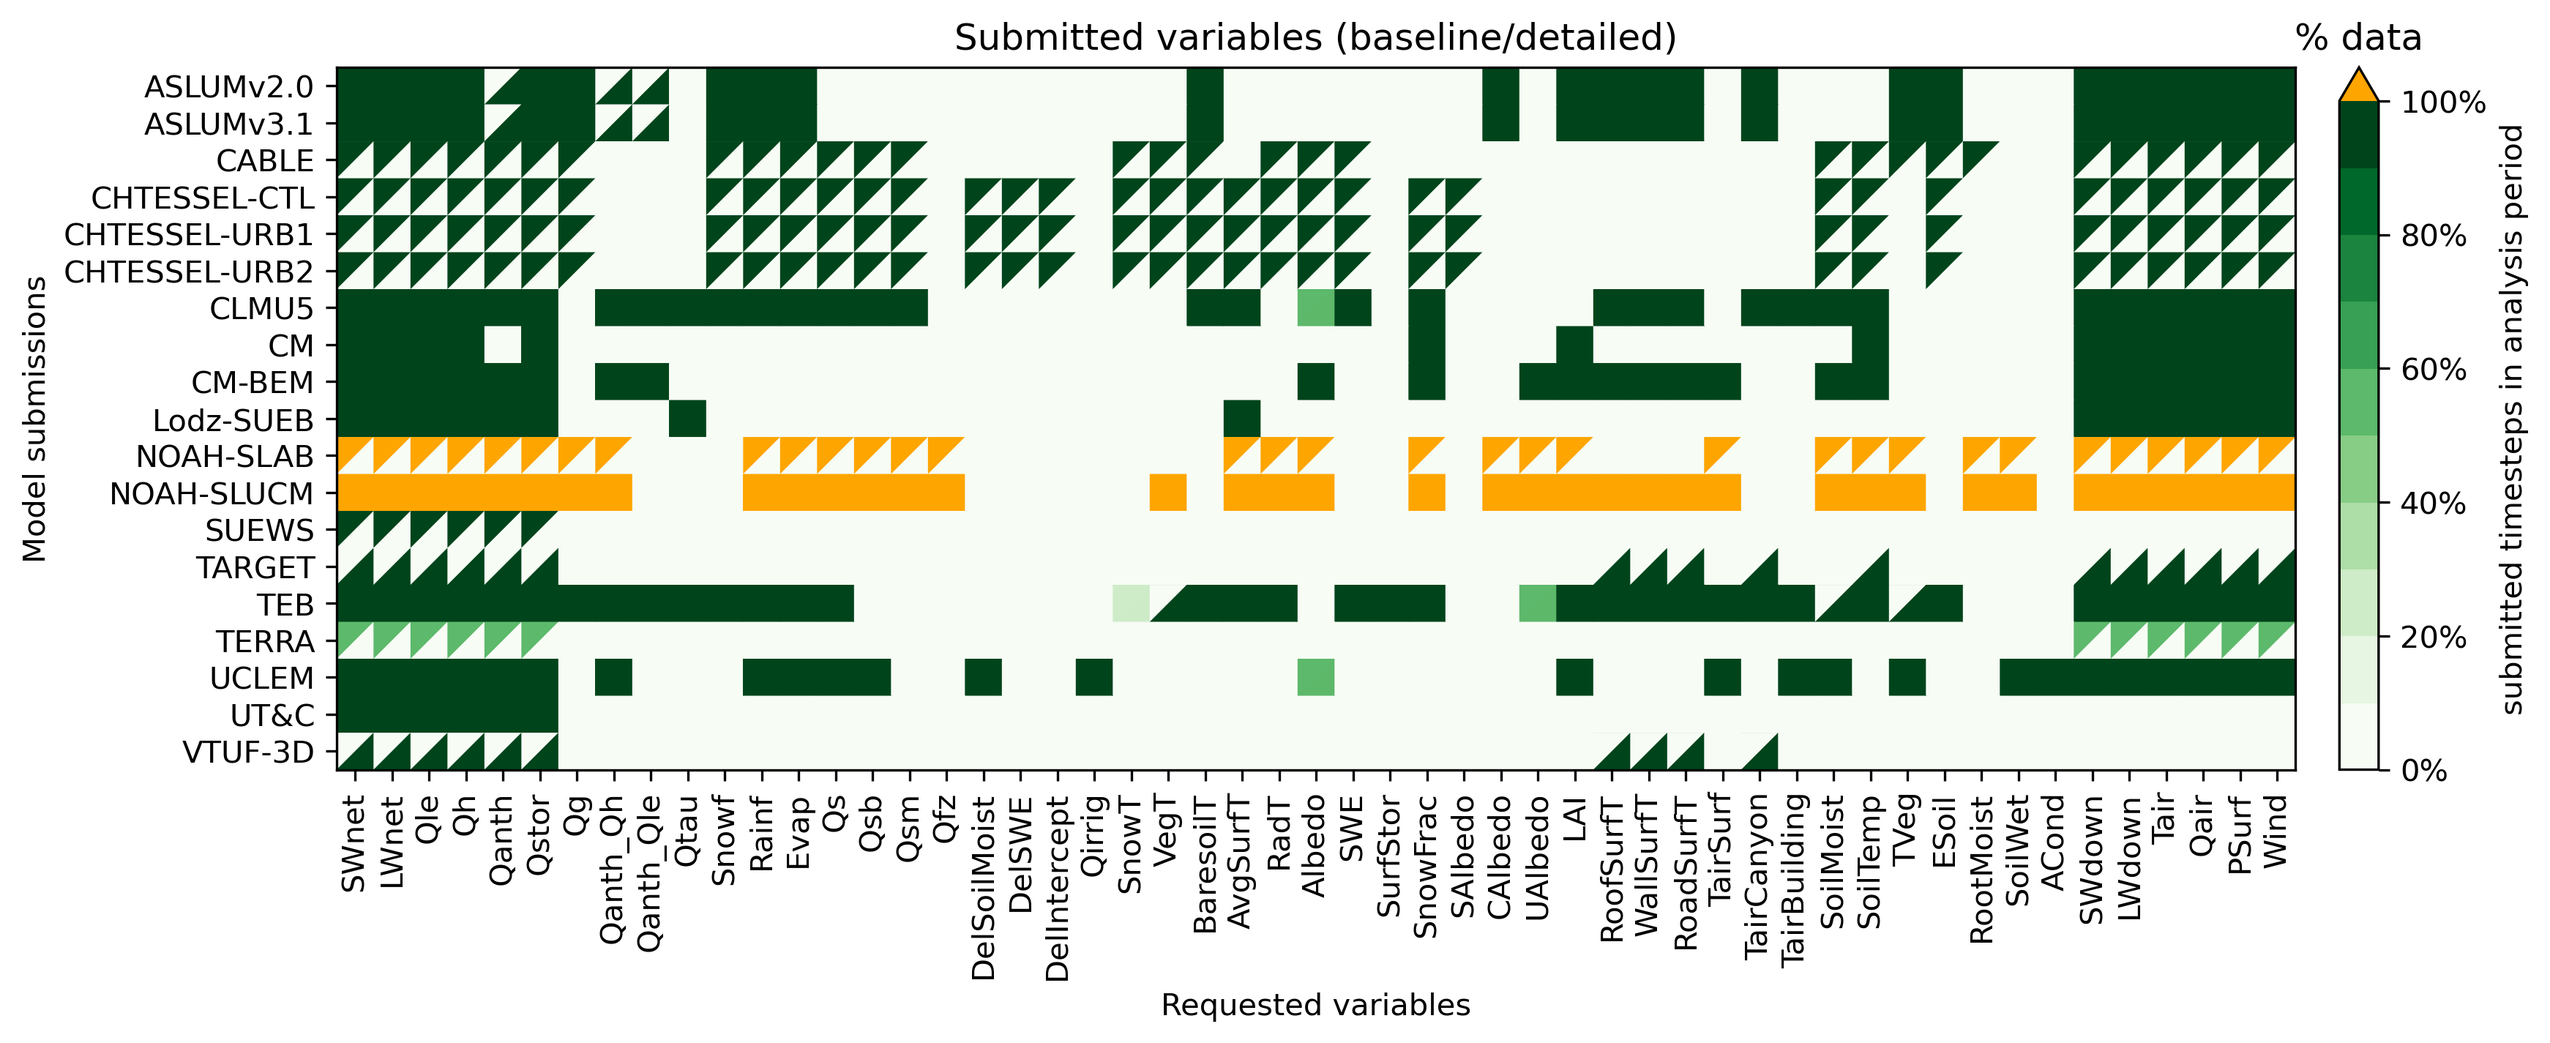
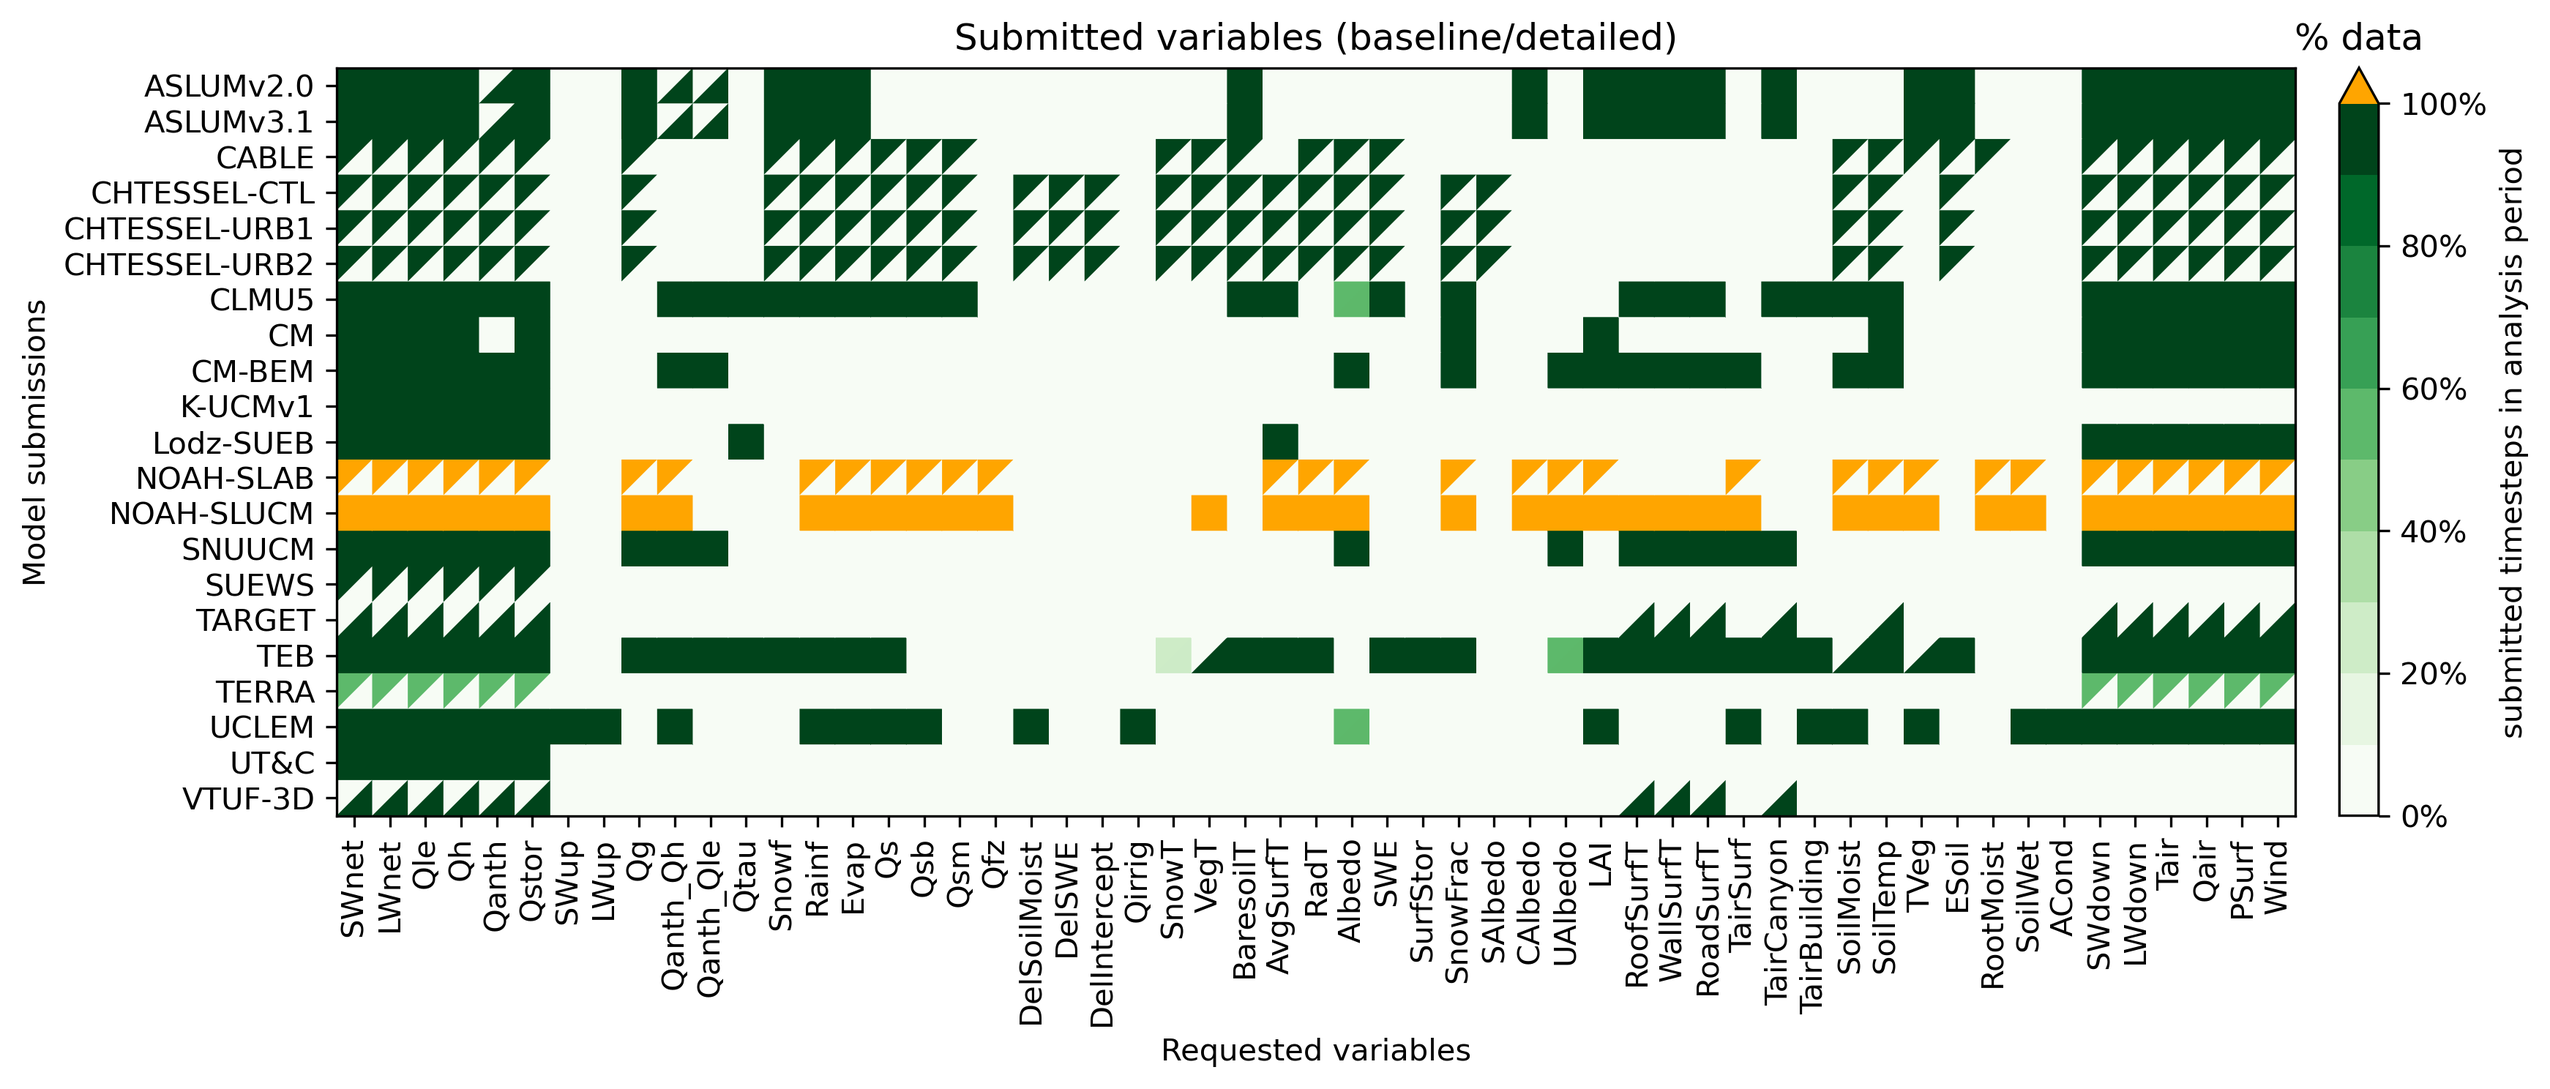
update 2nd modelattrs

diff --git a/modelattrs/SNUUCM_AU-Preston_baseline_attrs.md b/modelattrs/SNUUCM_AU-Preston_baseline_attrs.md
@@ -1,0 +1,17 @@
+|                   | baseline                                                                                                                                                                                   |
+|:------------------|:-------------------------------------------------------------------------------------------------------------------------------------------------------------------------------------------|
+| file              | SNUUCM_AU-Preston_b1_1_SNUUCM_AU-Preston_baseline_v1.nc                                                                                                                                    |
+| title             | SNUUCM output for the Urban-PLUMBER project                                                                                                                                                |
+| site              | AU-Preston                                                                                                                                                                                 |
+| experiment        | baseline experiment                                                                                                                                                                        |
+| institution       | Seoul National University                                                                                                                                                                  |
+| primary_contact   | Seung-Bu Park:sbpark3@uos.ac.kr                                                                                                                                                            |
+| secondary_contact | Jong-Jin Baik:jjbaik@snu.ac.kr                                                                                                                                                             |
+| model             | SNUUCM                                                                                                                                                                                     |
+| source            | SNUUCM V1 + Noah LSM V3.4.1                                                                                                                                                                |
+| references        | Ryu, Y.-H., J.-J. Baik, and S.-H. Lee, 2011: A new single-layer urban canopy model for use in mesoscale atmospheric models. Journal of Applied Meteorology and Climatology, 50, 1773-1794. |
+| repository        |                                                                                                                                                                                            |
+| site_experience   | Has the group had previous experience modelling the site? Yes.                                                                                                                             |
+| additional_data   | Has the group used additional site-specific data to configure the simulation? No.                                                                                                          |
+| comment           |                                                                                                                                                                                            |
+| history           | Created with ./create_netcdf_EXAMPLE_v1.py at 2020-12-12 01:52:23.472563                                                                                                                   |

diff --git a/modelattrs/SNUUCM_AU-Preston_detailed_attrs.md b/modelattrs/SNUUCM_AU-Preston_detailed_attrs.md
@@ -1,0 +1,17 @@
+|                   | detailed                                                                                                                                                                                   |
+|:------------------|:-------------------------------------------------------------------------------------------------------------------------------------------------------------------------------------------|
+| file              | SNUUCM_AU-Preston_d1_1_SNUUCM_AU-Preston_detailed_v1.nc                                                                                                                                    |
+| title             | SNUUCM output for the Urban-PLUMBER project                                                                                                                                                |
+| site              | AU-Preston                                                                                                                                                                                 |
+| experiment        | detailed experiment                                                                                                                                                                        |
+| institution       | Seoul National University                                                                                                                                                                  |
+| primary_contact   | Seung-Bu Park:sbpark3@uos.ac.kr                                                                                                                                                            |
+| secondary_contact | Jong-Jin Baik:jjbaik@snu.ac.kr                                                                                                                                                             |
+| model             | SNUUCM                                                                                                                                                                                     |
+| source            | SNUUCM V1 + Noah LSM V3.4.1                                                                                                                                                                |
+| references        | Ryu, Y.-H., J.-J. Baik, and S.-H. Lee, 2011: A new single-layer urban canopy model for use in mesoscale atmospheric models. Journal of Applied Meteorology and Climatology, 50, 1773-1794. |
+| repository        |                                                                                                                                                                                            |
+| site_experience   | Has the group had previous experience modelling the site? Yes.                                                                                                                             |
+| additional_data   | Has the group used additional site-specific data to configure the simulation? No.                                                                                                          |
+| comment           |                                                                                                                                                                                            |
+| history           | Created with ./create_netcdf_EXAMPLE_v1.py at 2020-12-12 01:44:37.270875                                                                                                                   |

diff --git a/modelattrs/VTUF-3D_AU-Preston_detailed_attrs.md b/modelattrs/VTUF-3D_AU-Preston_detailed_attrs.md
@@ -1,6 +1,6 @@
 |                   | detailed                                                                                                                                                                                                                                               |
 |:------------------|:-------------------------------------------------------------------------------------------------------------------------------------------------------------------------------------------------------------------------------------------------------|
-| file              | VTUF-3D Kerry Nice_1_VTUF3D_AU-Preston_detailed_v1.nc                                                                                                                                                                                                  |
+| file              | VTUF-3D Kerry Nice #2_1_VTUF3D_AU-Preston_detailed_v1.nc                                                                                                                                                                                               |
 | title             | VTUF-3D output for the Urban-PLUMBER project                                                                                                                                                                                                           |
 | site              | Preston                                                                                                                                                                                                                                                |
 | experiment        | Detailed experiment                                                                                                                                                                                                                                    |
@@ -14,4 +14,4 @@
 | site_experience   | Yes                                                                                                                                                                                                                                                    |
 | additional_data   | No                                                                                                                                                                                                                                                     |
 | comment           | Any additional comments participants wish to record                                                                                                                                                                                                    |
-| history           | Created with create_netcdf_AU-Preston_v1.py at 2020-08-24 13:51:46.905742                                                                                                                                                                              |
+| history           | Created with create_netcdf_AU-Preston_v1.py at 2020-08-26 11:35:01.836775                                                                                                                                                                              |

diff --git a/modelattrs/K-UCMv1_AU-Preston_baseline_attrs.md b/modelattrs/K-UCMv1_AU-Preston_baseline_attrs.md
@@ -1,0 +1,17 @@
+|                   | baseline                                                                                                                             |
+|:------------------|:-------------------------------------------------------------------------------------------------------------------------------------|
+| file              | K-UCMv1-AU-Preston-b2_1_K-UCMv1-AU-Preston-b1.nc                                                                                     |
+| title             | K-UCMv1 - Sample Run                                                                                                                 |
+| site              | Preston                                                                                                                              |
+| experiment        | Baseline                                                                                                                             |
+| institution       | Klimaat Consulting & Innovation                                                                                                      |
+| primary_contact   | Meiring Beyers meiring.beyers@klimaat.ca                                                                                             |
+| secondary_contact | Name and email of secondary contact person                                                                                           |
+| model             | K-UCMv1                                                                                                                              |
+| source            | Klimaat Urban Canopy Model Version 1                                                                                                 |
+| references        | Publication reference(s) for the model: None                                                                                         |
+| repository        | A link to model code repository (e.g. github) if available: None                                                                     |
+| site_experience   | Has the group had previous experience modelling the site? NO                                                                         |
+| additional_data   | Has the group used additional site-specific data to configure the simulation? Site and land surface inputs largely satellite derived |
+| comment           | Any additional comments participants wish to record                                                                                  |
+| history           | Created with create_netcdf_EXAMPLE_v1.py at 2020-12-11 10:13:38.113581                                                               |

diff --git a/modelattrs/K-UCMv1_AU-Preston_detailed_attrs.md b/modelattrs/K-UCMv1_AU-Preston_detailed_attrs.md
@@ -1,0 +1,17 @@
+|                   | detailed                                                                                                                             |
+|:------------------|:-------------------------------------------------------------------------------------------------------------------------------------|
+| file              | K-UCMv1-AU-Preston-d2_1_K-UCMv1-AU-Preston-d2_baseline_v1.nc                                                                         |
+| title             | K-UCMv1 - Sample Run                                                                                                                 |
+| site              | Preston                                                                                                                              |
+| experiment        | Baseline                                                                                                                             |
+| institution       | Klimaat Consulting & Innovation                                                                                                      |
+| primary_contact   | Meiring Beyers meiring.beyers@klimaat.ca                                                                                             |
+| secondary_contact | Name and email of secondary contact person                                                                                           |
+| model             | K-UCMv1                                                                                                                              |
+| source            | Klimaat Urban Canopy Model Version 1                                                                                                 |
+| references        | Publication reference(s) for the model: None                                                                                         |
+| repository        | A link to model code repository (e.g. github) if available: None                                                                     |
+| site_experience   | Has the group had previous experience modelling the site? NO                                                                         |
+| additional_data   | Has the group used additional site-specific data to configure the simulation? Site and land surface inputs largely satellite derived |
+| comment           | Any additional comments participants wish to record                                                                                  |
+| history           | Created with create_netcdf_EXAMPLE_v1.py at 2020-12-12 14:48:41.042568                                                               |

diff --git a/modelattrs/index.md b/modelattrs/index.md
@@ -24,9 +24,11 @@ Metadata as submitted for baseline and detailed experiments
 | CLMU5         | [CLMU5](CLMU5_AU-Preston_baseline_attrs.md)                 | [CLMU5](CLMU5_AU-Preston_detailed_attrs.md)           |
 | CM-BEM        | [CM-BEM](CM-BEM_AU-Preston_baseline_attrs.md)               | [CM-BEM](CM-BEM_AU-Preston_detailed_attrs.md)         |
 | CM            | [CM](CM_AU-Preston_baseline_attrs.md)                       | [CM](CM_AU-Preston_detailed_attrs.md)                 |
+| K-UCMv1       | [K-UCMv1](K-UCMv1_AU-Preston_baseline_attrs.md)             | [K-UCMv1](K-UCMv1_AU-Preston_detailed_attrs.md)       |
 | Lodz-SUEB     | [Lodz-SUEB](Lodz-SUEB_AU-Preston_baseline_attrs.md)         | [Lodz-SUEB](Lodz-SUEB_AU-Preston_detailed_attrs.md)   |
 | NOAH-SLAB     | [NOAH-SLAB](NOAH-SLAB_AU-Preston_baseline_attrs.md)         |                                                       |
 | NOAH-SLUCM    | [NOAH-SLUCM](NOAH-SLUCM_AU-Preston_baseline_attrs.md)       | [NOAH-SLUCM](NOAH-SLUCM_AU-Preston_detailed_attrs.md) |
+| SNUUCM        | [SNUUCM](SNUUCM_AU-Preston_baseline_attrs.md)               | [SNUUCM](SNUUCM_AU-Preston_detailed_attrs.md)         |
 | SUEWS         | [SUEWS](SUEWS_AU-Preston_baseline_attrs.md)                 |                                                       |
 | TEB           | [TEB](TEB_AU-Preston_baseline_attrs.md)                     | [TEB](TEB_AU-Preston_detailed_attrs.md)               |
 | TERRA         | [TERRA](TERRA_AU-Preston_baseline_attrs.md)                 |                                                       |
